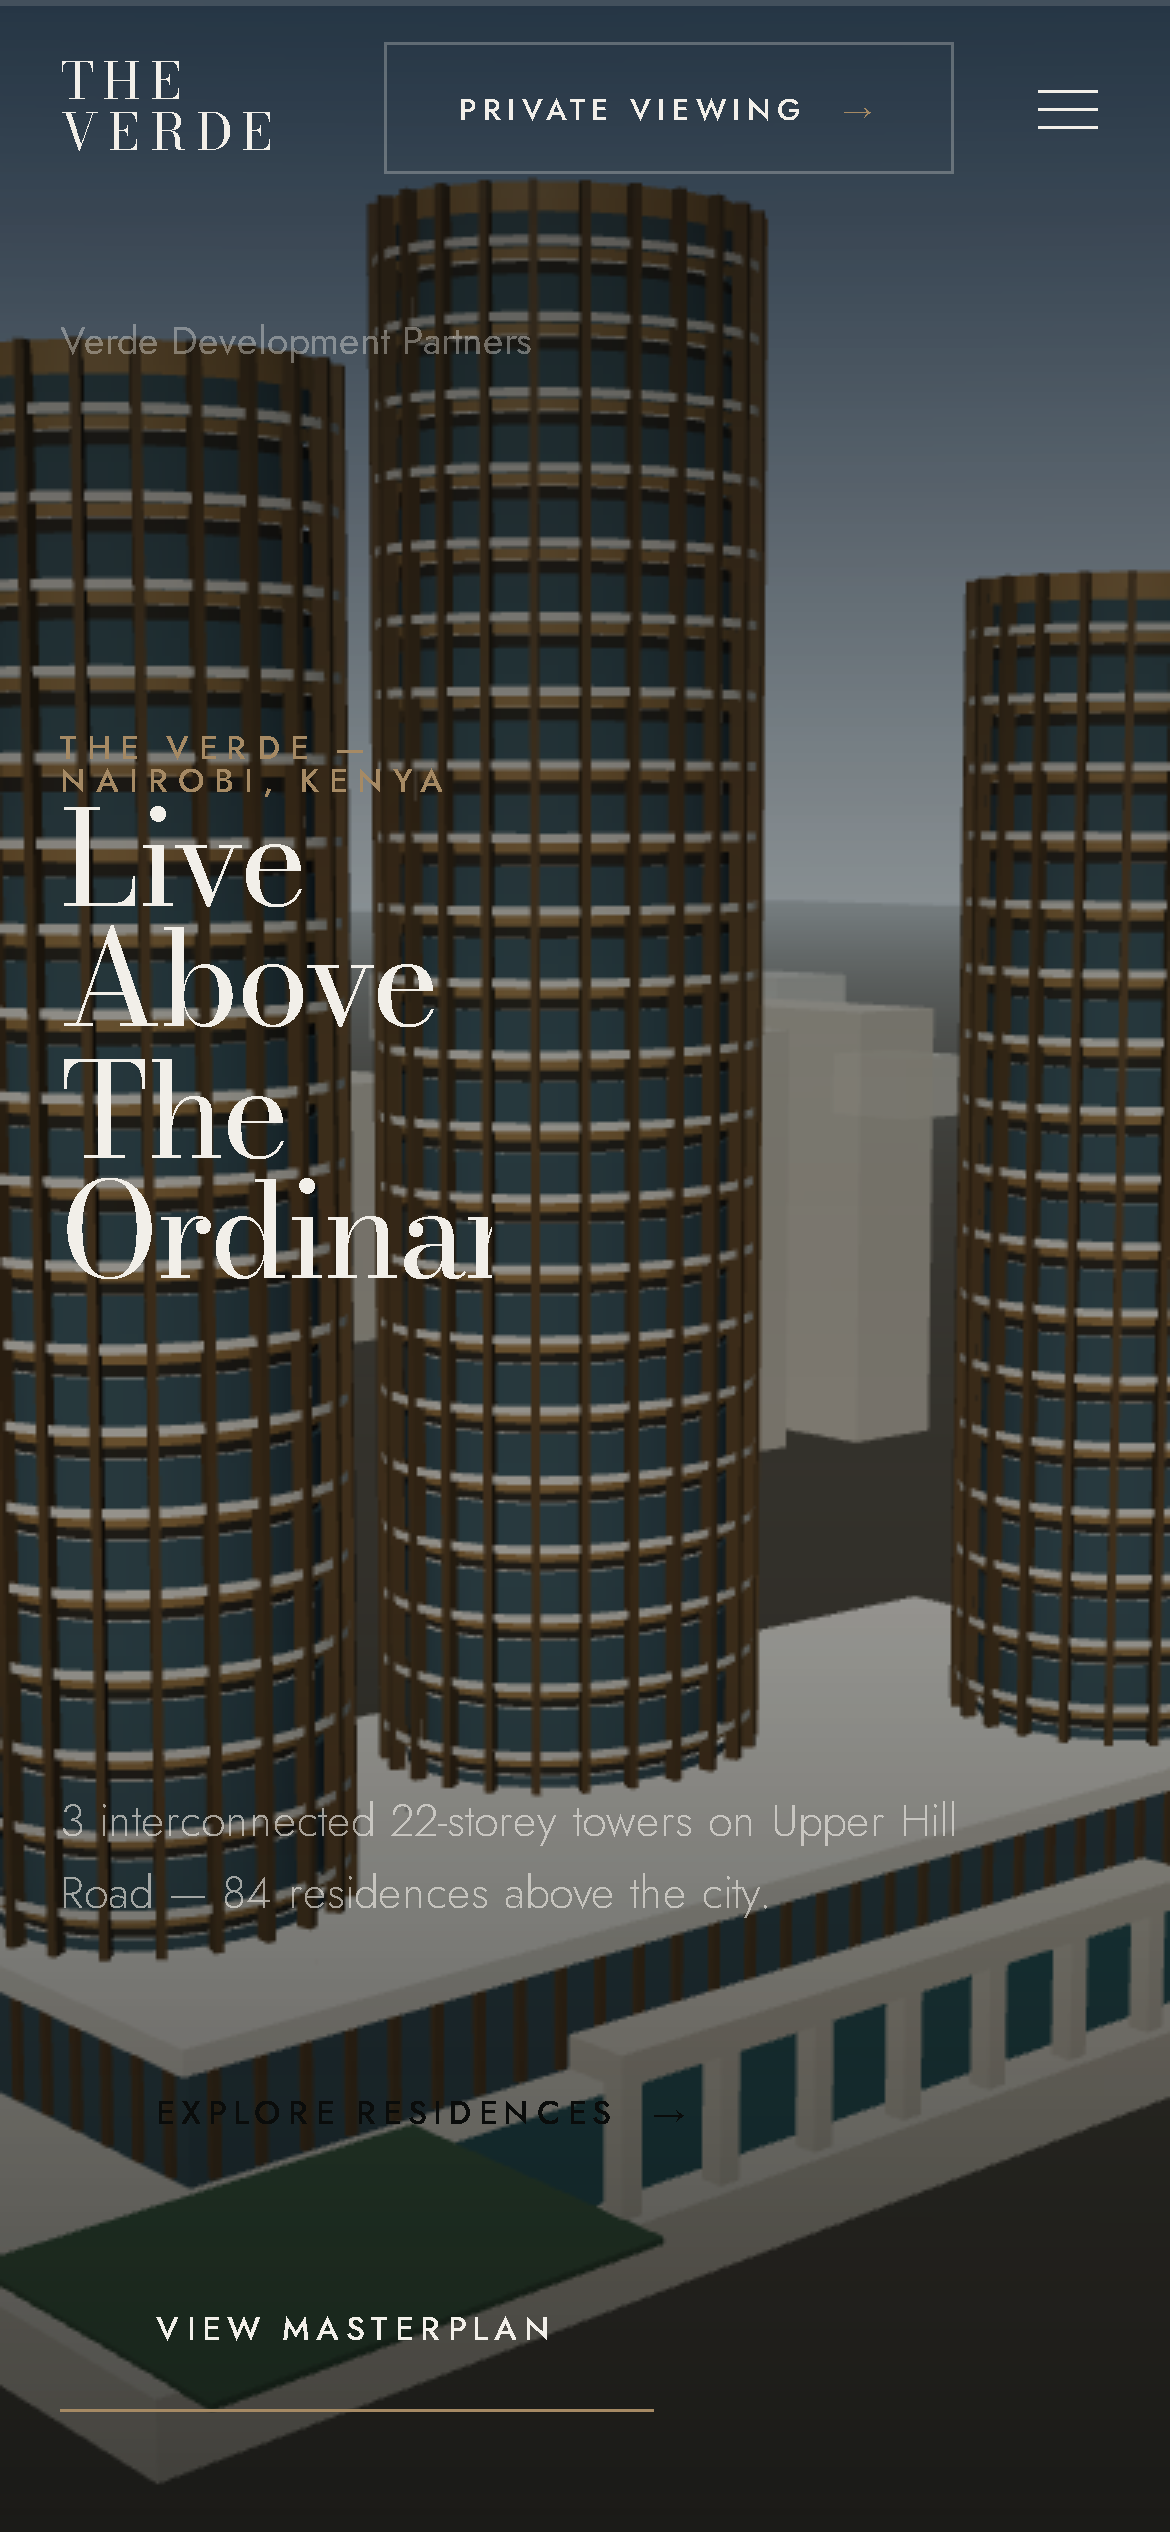
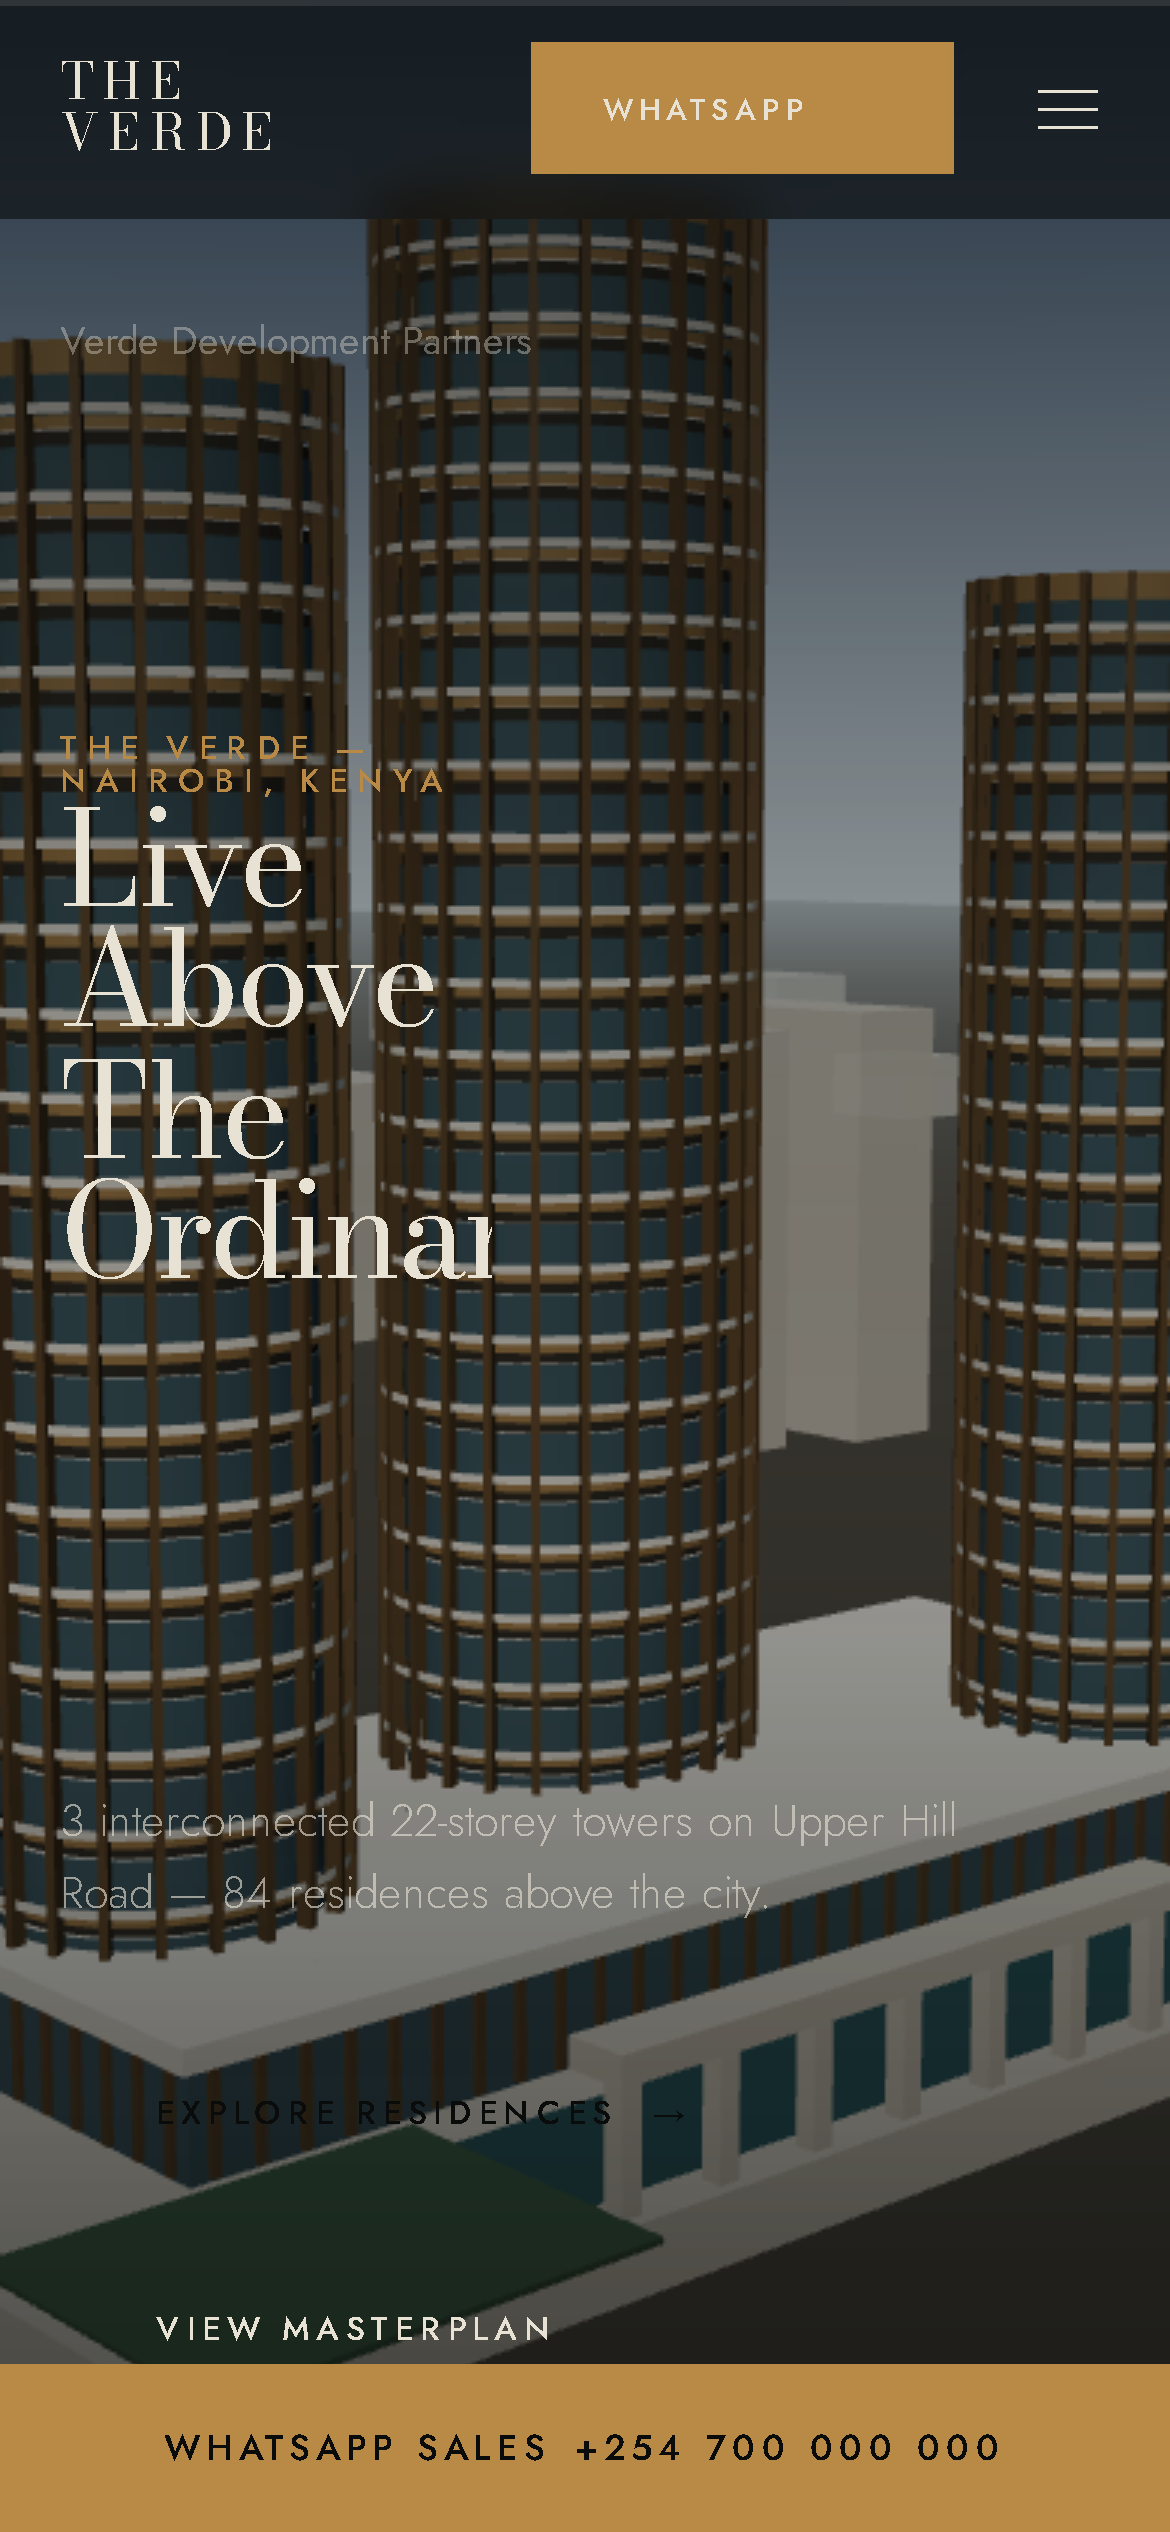
feat: 800svh flight shell with sticky viewport and stacked-still fallback

diff --git a/src/components/journey/FlightShell.tsx b/src/components/journey/FlightShell.tsx
@@ -3,38 +3,54 @@
 import { useRef } from "react";
 import { useGSAP } from "@gsap/react";
 
-import { gsap } from "@/animations/gsap";
+import { gsap, registerGsap } from "@/animations/gsap";
 import { Button } from "@/components/ui/Button";
 import { Eyebrow } from "@/components/ui/Eyebrow";
 import { ResponsivePicture } from "@/components/ui/ResponsivePicture";
+import { BEATS } from "@/data/beats";
 import { assets } from "@/data/assets";
 import { architecture, hero, site } from "@/data/site";
 import { useCanvasReady } from "@/hooks/useCanvasReady";
+import { useMounted } from "@/hooks/useMounted";
 import { useReducedMotion } from "@/hooks/useReducedMotion";
+import { useWebGLSupport } from "@/hooks/useWebGLSupport";
 import { cn } from "@/lib/cn";
 
-/**
- * Section 01 — Cinematic hero.
- *
- * Phase 1 ships the photographic layer plus the full typographic and CTA
- * treatment. The WebGL arrival flight is layered over this in Phase 2, so the
- * DOM composition here is the one that survives into the final build — the
- * canvas is additive, never a replacement for real content.
- */
-export function Hero() {
+registerGsap();
+
+export function FlightShell() {
   const rootRef = useRef<HTMLElement>(null);
   const reduced = useReducedMotion();
   const canvasReady = useCanvasReady();
+  const supported = useWebGLSupport();
+  const mounted = useMounted();
+  const stack = mounted && !supported;
   const poster = assets.heroPoster;
 
   useGSAP(
     () => {
       const root = rootRef.current;
-      if (!root) return;
+      if (!root || stack) return;
+
+      const content = root.querySelector<HTMLElement>("[data-hero-content]");
+      if (content) {
+        gsap.to(content, {
+          opacity: 0,
+          ease: "none",
+          onUpdate: () => {
+            content.style.pointerEvents =
+              Number(gsap.getProperty(content, "opacity")) < 0.05 ? "none" : "";
+          },
+          scrollTrigger: {
+            trigger: root,
+            start: "top top",
+            end: "15% top",
+            scrub: 1,
+          },
+        });
+      }
 
       if (reduced) {
-        // Skip the choreography but guarantee the final state, since the
-        // hydration pass ran with the server snapshot (motion allowed).
         gsap.set(
           "[data-hero-eyebrow], [data-hero-line], [data-hero-meta], [data-hero-cta]",
           { clearProps: "opacity,transform" },
@@ -52,91 +68,83 @@ export function Hero() {
           0.2,
         )
         .fromTo("[data-hero-meta]", { opacity: 0, y: 18 }, { opacity: 1, y: 0, duration: 0.8 }, 0.7)
-        .fromTo("[data-hero-cta]", { opacity: 0, y: 14 }, { opacity: 1, y: 0, duration: 0.7, stagger: 0.08 }, 0.85);
+        .fromTo(
+          "[data-hero-cta]",
+          { opacity: 0, y: 14 },
+          { opacity: 1, y: 0, duration: 0.7, stagger: 0.08 },
+          0.85,
+        );
 
-      // Slow counter-move on the photograph gives the static image real depth
-      // until the WebGL layer arrives in Phase 2.
       gsap.to("[data-hero-media]", {
         yPercent: 12,
         scale: 1.08,
         ease: "none",
         scrollTrigger: {
-          trigger: rootRef.current,
+          trigger: root,
           start: "top top",
           end: "bottom top",
           scrub: 1,
         },
       });
     },
-    { scope: rootRef, dependencies: [reduced] },
+    { scope: rootRef, dependencies: [reduced, stack] },
   );
 
-  return (
-    <section
-      id="hero"
-      ref={rootRef}
-      aria-labelledby="hero-heading"
-      className="relative isolate flex min-h-[100svh] flex-col justify-end overflow-hidden"
+  const photoLayer = (
+    <div
+      data-hero-photo
+      className={cn(
+        "absolute inset-0 -z-10 overflow-hidden transition-opacity duration-1000",
+        canvasReady && "pointer-events-none opacity-0",
+      )}
     >
-      {/* Photograph — the WebGL layer cross-fades over it. The image is never
-          removed, only faded, so a device without WebGL keeps the full hero. */}
-      <div
-        data-hero-photo
-        className={cn(
-          "absolute inset-0 -z-10 overflow-hidden transition-opacity duration-1000",
-          canvasReady && "pointer-events-none opacity-0",
-        )}
-      >
-        <div data-hero-media className="h-full w-full will-change-transform">
-          <ResponsivePicture
-            source={poster}
-            alt={poster.alt}
-            width={poster.width}
-            height={poster.height}
-            blurDataURL={poster.blurDataURL}
-            priority
-            sizes="100vw"
-            className="h-full w-full"
-            style={{ aspectRatio: "auto" }}
-          />
-        </div>
-
-        {/* Legibility scrim — measured against the photographic luminance, not
-            applied as a decorative gradient. */}
-        <div
-          aria-hidden="true"
-          className="absolute inset-0 bg-ink/45"
-          style={{
-            maskImage:
-              "linear-gradient(to bottom, rgba(0,0,0,0.85) 0%, rgba(0,0,0,0.25) 38%, rgba(0,0,0,0.2) 60%, rgba(0,0,0,0.92) 100%)",
-          }}
+      <div data-hero-media className="h-full w-full will-change-transform">
+        <ResponsivePicture
+          source={poster}
+          alt={poster.alt}
+          width={poster.width}
+          height={poster.height}
+          blurDataURL={poster.blurDataURL}
+          priority
+          sizes="100vw"
+          className="h-full w-full"
+          style={{ aspectRatio: "auto" }}
         />
       </div>
 
-      {/* Scrim for the WebGL layer, kept separate from the photograph so the
-          headline keeps its contrast once the canvas takes over. The 3D sky is
-          far brighter than the photograph, so it needs a heavier wash — the same
-          gradient at a higher opacity, applied only when WebGL is live. */}
       <div
-        data-hero-scrim
         aria-hidden="true"
-        className={cn(
-          "absolute inset-0 -z-10 bg-ink/70 transition-opacity duration-1000",
-          canvasReady ? "opacity-100" : "opacity-0",
-        )}
+        className="absolute inset-0 bg-ink/45"
         style={{
           maskImage:
-            "linear-gradient(to bottom, rgba(0,0,0,0.9) 0%, rgba(0,0,0,0.45) 40%, rgba(0,0,0,0.4) 62%, rgba(0,0,0,0.95) 100%)",
+            "linear-gradient(to bottom, rgba(0,0,0,0.85) 0%, rgba(0,0,0,0.25) 38%, rgba(0,0,0,0.2) 60%, rgba(0,0,0,0.92) 100%)",
         }}
       />
+    </div>
+  );
 
+  const scrim = (
+    <div
+      data-hero-scrim
+      aria-hidden="true"
+      className={cn(
+        "absolute inset-0 -z-10 bg-ink/70 transition-opacity duration-1000",
+        canvasReady ? "opacity-100" : "opacity-0",
+      )}
+      style={{
+        maskImage:
+          "linear-gradient(to bottom, rgba(0,0,0,0.9) 0%, rgba(0,0,0,0.45) 40%, rgba(0,0,0,0.4) 62%, rgba(0,0,0,0.95) 100%)",
+      }}
+    />
+  );
+
+  const overlay = (
+    <div data-hero-content className="flex flex-1 flex-col">
       <div className="shell flex flex-1 flex-col justify-between pb-10 pt-[calc(var(--nav-h)+2rem)] md:pb-14">
-        {/* Developer label */}
         <p data-hero-meta className="caption text-ivory-faint">
           {site.developer}
         </p>
 
-        {/* Headline block */}
         <div className="max-w-[16ch] md:max-w-none">
           <div data-hero-eyebrow>
             <Eyebrow className="mb-6 md:mb-8">{hero.eyebrow}</Eyebrow>
@@ -156,18 +164,19 @@ export function Hero() {
             ))}
           </p>
 
-          {/* Announced once, visible decoration suppressed above. */}
           <p className="visually-hidden">{hero.headline}</p>
         </div>
 
-        {/* Supporting row */}
         <div className="mt-10 grid-12 items-end gap-y-8 md:mt-14">
           <p data-hero-meta className="body-copy col-span-4 md:col-span-3 lg:col-span-3">
             {architecture.towers} interconnected {architecture.storeys}-storey towers on Upper
             Hill Road — {architecture.residences} residences above the city.
           </p>
 
-          <div data-hero-cta className="col-span-4 flex flex-wrap items-center gap-x-8 gap-y-4 md:col-span-3">
+          <div
+            data-hero-cta
+            className="col-span-4 flex flex-wrap items-center gap-x-8 gap-y-4 md:col-span-3"
+          >
             <Button href={hero.primaryCta.href} variant="solid" size="lg" withArrow>
               {hero.primaryCta.label}
             </Button>
@@ -186,7 +195,6 @@ export function Hero() {
         </div>
       </div>
 
-      {/* Scroll indicator */}
       <div
         aria-hidden="true"
         className={cn(
@@ -199,6 +207,52 @@ export function Hero() {
           <span className="absolute inset-x-0 top-0 h-4 animate-[scrollHint_2.4s_ease-in-out_infinite] bg-bronze" />
         </span>
       </div>
+    </div>
+  );
+
+  const stackFigures = BEATS.slice(1).map((beat) => {
+    const image = assets[beat.assetKey];
+    return (
+      <figure key={beat.id} className="relative h-[50vh] w-full overflow-hidden">
+        <ResponsivePicture
+          source={image}
+          alt={image.alt}
+          width={image.width}
+          height={image.height}
+          blurDataURL={image.blurDataURL}
+          sizes="100vw"
+          className="h-full w-full"
+          style={{ aspectRatio: "auto" }}
+        />
+        <figcaption className="caption absolute bottom-4 left-4 text-ivory-faint">
+          {beat.label}
+        </figcaption>
+      </figure>
+    );
+  });
+
+  return (
+    <section id="hero" ref={rootRef} aria-labelledby="hero-heading" className="relative isolate">
+      {stack ? (
+        <div key="stack">
+          <div className="relative isolate flex min-h-[100svh] flex-col justify-end overflow-hidden">
+            {photoLayer}
+            {scrim}
+            {overlay}
+          </div>
+          {stackFigures}
+        </div>
+      ) : (
+        <div key="flight" className="relative h-[800svh]">
+          <div className="sticky top-0 h-[100svh] overflow-hidden">
+            <div className="relative isolate flex h-full flex-col justify-end">
+              {photoLayer}
+              {scrim}
+              {overlay}
+            </div>
+          </div>
+        </div>
+      )}
 
       <style>{`
         @keyframes scrollHint {

diff --git a/src/data/beats.ts b/src/data/beats.ts
@@ -1,0 +1,24 @@
+import type { AssetKey } from "@/data/assets";
+
+export type Beat = {
+  id: string;
+  assetKey: AssetKey;
+  depth: number;
+  label: string;
+};
+
+export const BEATS: readonly Beat[] = [
+  { id: "arrival", assetKey: "heroPoster", depth: 90, label: "Arrival" },
+  { id: "towers", assetKey: "heroTowers", depth: 90, label: "The Towers" },
+  { id: "development", assetKey: "developmentTowers", depth: 90, label: "Development View" },
+  { id: "threshold", assetKey: "entranceStreet", depth: 70, label: "Threshold" },
+  { id: "lobby", assetKey: "lobbyWide", depth: 130, label: "Lobby" },
+  { id: "lobby-detail", assetKey: "lobbyDetail", depth: 130, label: "Lobby Detail" },
+  { id: "residence", assetKey: "residenceLiving", depth: 130, label: "Residence Interior" },
+  { id: "living", assetKey: "livingRoom", depth: 130, label: "Living Room" },
+  { id: "view", assetKey: "balconySkyline", depth: 90, label: "The View" },
+  { id: "rooftop-rise", assetKey: "rooftopRise", depth: 90, label: "Rooftop Rise" },
+  { id: "rooftop-pool", assetKey: "rooftopPool", depth: 90, label: "Rooftop Pool" },
+  { id: "night-facade", assetKey: "nightFacade", depth: 90, label: "Night Facade" },
+  { id: "night", assetKey: "nightIlluminated", depth: 90, label: "Night" },
+];

diff --git a/src/app/page.tsx b/src/app/page.tsx
@@ -1,7 +1,7 @@
 import { SiteFooter } from "@/components/chrome/SiteFooter";
+import { FlightShell } from "@/components/journey/FlightShell";
 import { Development } from "@/components/journey/sections/Development";
 import { EditorialChapter } from "@/components/journey/sections/EditorialChapter";
-import { Hero } from "@/components/journey/sections/Hero";
 import { sections } from "@/data/site";
 
 /**
@@ -17,7 +17,7 @@ import { sections } from "@/data/site";
 export default function Home() {
   return (
     <>
-      <Hero />
+      <FlightShell />
 
       <Development />
 

diff --git a/src/journey/waypoints.ts b/src/journey/waypoints.ts
@@ -141,9 +141,9 @@ export function authoredToU(t: number): number {
   return 1;
 }
 
-/** Which chapters drive the canvas. The canvas spans 01 → 08. */
+/** Which chapters drive the canvas. The canvas spans the flight section. */
 export const JOURNEY_START_ID = "hero";
-export const JOURNEY_END_ID = "day-night";
+export const JOURNEY_END_ID = "hero";
 
 /** Waypoint each chapter settles on, used by reduced-motion snapping. */
 export const CHAPTER_WAYPOINT: Record<string, string> = {
